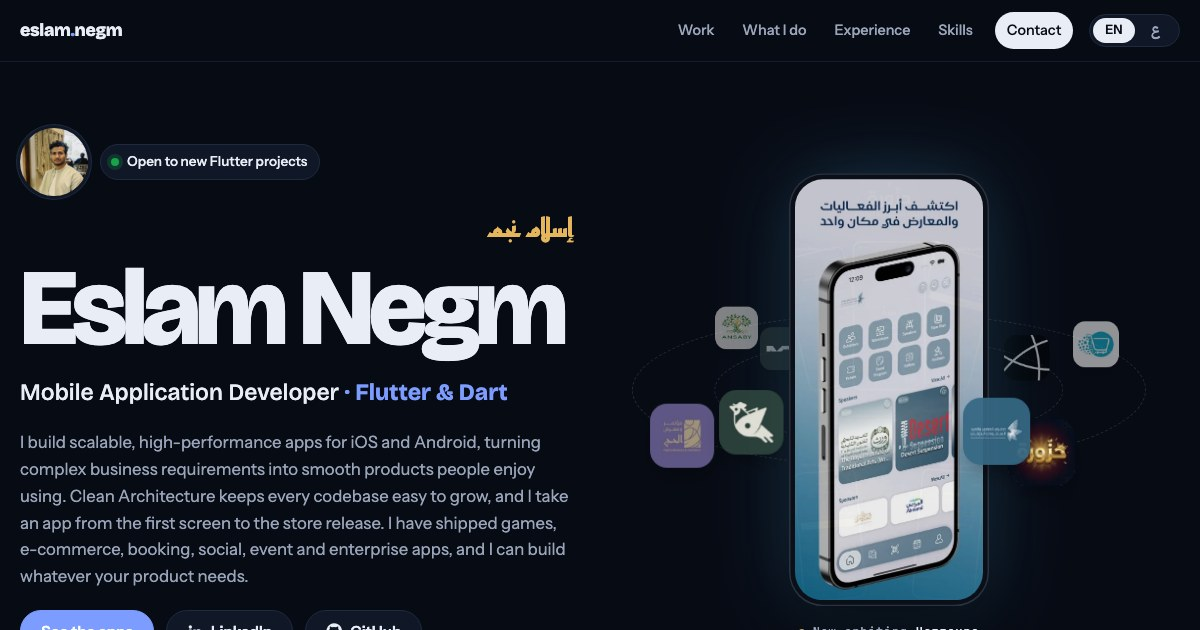
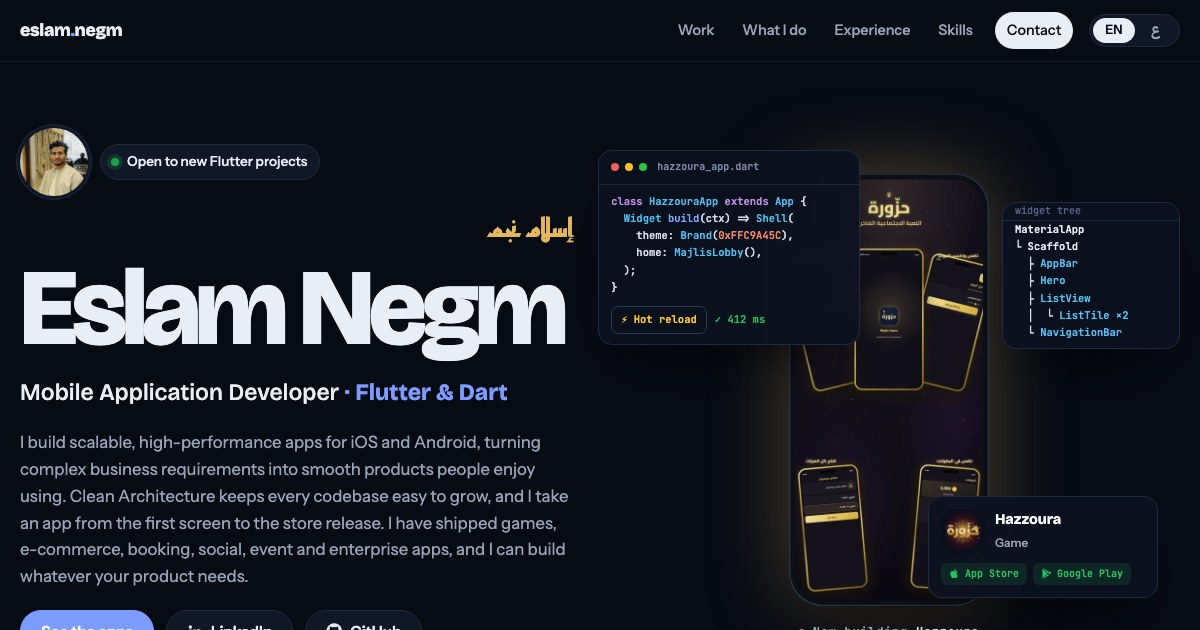
Replace the hero app orbit with a hot reload studio and refresh the link preview image

Changed region(s): [[0.4933, 0.2413, 0.9558, 0.9651], [0.4933, 0.2413, 0.6475, 0.2714], [0.6783, 0.9952, 0.7708, 1.0]]

diff --git a/index.html b/index.html
@@ -12,13 +12,13 @@
 <meta property="og:site_name" content="Eslam Negm">
 <meta property="og:title" content="Eslam Negm · Software Engineer">
 <meta property="og:description" content="Eslam Negm, Software Engineer building mobile apps with Flutter & Dart. Eight production apps on the App Store and Google Play: games, enterprise, events, social and commerce.">
-<meta property="og:image" content="https://eslamnegm.is-a.dev/og.jpg?v=3">
+<meta property="og:image" content="https://eslamnegm.is-a.dev/og.jpg?v=4">
 <meta property="og:url" content="https://eslamnegm.is-a.dev/">
 <link rel="canonical" href="https://eslamnegm.is-a.dev/">
 <meta name="twitter:card" content="summary_large_image">
 <meta name="twitter:title" content="Eslam Negm · Software Engineer">
 <meta name="twitter:description" content="Eslam Negm, Software Engineer building mobile apps with Flutter & Dart. Eight production apps on the App Store and Google Play: games, enterprise, events, social and commerce.">
-<meta name="twitter:image" content="https://eslamnegm.is-a.dev/og.jpg?v=3">
+<meta name="twitter:image" content="https://eslamnegm.is-a.dev/og.jpg?v=4">
 <script type="application/ld+json">{"@context":"https://schema.org","@type":"Person","name":"Eslam Negm","alternateName":"إسلام نجم","jobTitle":"Software Engineer","url":"https://eslamnegm.is-a.dev/","image":"https://eslamnegm.is-a.dev/img/me.jpg","address":{"@type":"PostalAddress","addressCountry":"EG"},"knowsAbout":["Flutter","Dart","Mobile application development","iOS","Android"],"sameAs":["https://github.com/eslamnegm010","https://www.linkedin.com/in/eslam-negm-37b03b3b8/","https://www.facebook.com/eSlam.neGm.Em"]}</script>
 <script type="application/ld+json">{"@context":"https://schema.org","@type":"WebSite","name":"Eslam Negm","alternateName":["إسلام نجم","Eslam Negm · Software Engineer"],"url":"https://eslamnegm.is-a.dev/"}</script>
 <link rel="icon" href="/favicon.ico" sizes="48x48">
@@ -30,7 +30,7 @@
 <link rel="preconnect" href="https://fonts.gstatic.com" crossorigin>
 <link rel="stylesheet" href="https://fonts.googleapis.com/css2?family=Alexandria:wght@600;700;800&family=Bricolage+Grotesque:opsz,wght@12..96,500;12..96,700;12..96,800&family=IBM+Plex+Sans+Arabic:wght@400;500;600&family=Instrument+Sans:wght@400;500;600&family=JetBrains+Mono:wght@500&family=Reem+Kufi:wght@600;700&display=swap">
 <style>
-/* Layout: hero = name + an "app orbit" (every shipped app circles a phone that shows whichever app passes in front);
+/* Layout: hero = name + a "hot reload studio" (each shipped app is coded, hot-reloaded, built widget by widget on a phone, then shipped);
    an app rail under the intro becomes a floating dock once you pass it; each app is a free-flowing section whose
    screens deal out like cards as it rises into view while the page takes the app's colour. English and Arabic (RTL). */
 :root {
@@ -302,9 +302,8 @@ html.is-loading .intro > *, html.is-loading .hero h1 .w, html.is-loading .orbit 
 }
 
 /* orbit */
-.orbit { position: relative; height: 600px; min-width: 0; perspective: 1200px; }
-.orbit-in { position: absolute; inset: 0; transition: transform .6s var(--ease); }
-.ring { position: absolute; left: 50%; top: 50%; border: 1px dashed var(--ring); border-radius: 50%; transform: translate(-50%, -50%); pointer-events: none; }
+.orbit { position: relative; height: 600px; min-width: 0; }
+.orbit-in { position: absolute; inset: 0; }
 .screen {
   position: absolute; left: 50%; top: 50%; width: 200px; aspect-ratio: 9 / 19.5; transform: translate(-50%, -50%); z-index: 5;
   border-radius: 34px; padding: 6px; background: #0b0f17; box-shadow: var(--shadow), 0 0 0 1.5px #2a3242 inset, 0 0 80px -10px color-mix(in srgb, var(--hero-c, var(--accent)) 55%, transparent);
@@ -317,14 +316,40 @@ html.is-loading .intro > *, html.is-loading .hero h1 .w, html.is-loading .orbit 
   font: 500 0.75rem/1 var(--mono); color: var(--muted); letter-spacing: .06em; display: flex; align-items: center; gap: 8px; }
 .now b { color: var(--ink); font-weight: 500; }
 .now i { width: 6px; height: 6px; border-radius: 50%; background: var(--hero-c, var(--accent)); }
-.planet { position: absolute; left: 0; top: 0; width: 64px; height: 64px; margin: -32px 0 0 -32px; border-radius: 17px; display: block; will-change: transform, opacity; }
-.planet img { width: 100%; height: 100%; border-radius: inherit; display: block; box-shadow: 0 12px 26px -10px rgba(0,0,0,.55); }
-.planet span {
-  position: absolute; left: 50%; top: calc(100% + 8px); transform: translateX(-50%) translateY(4px); white-space: nowrap; pointer-events: none;
-  font: 600 0.76rem/1 var(--body); color: var(--ink); background: var(--surface); border: 1px solid var(--line); padding: 6px 9px; border-radius: 8px;
-  opacity: 0; transition: opacity .2s, transform .2s var(--ease);
-}
-.planet:hover span, .planet:focus-visible span { opacity: 1; transform: translateX(-50%); }
+.hr-sk { position: absolute; inset: 0; z-index: 2; background: #0b0f17; transition: opacity .55s ease; }
+.hr-sk.off { opacity: 0; }
+.hr-sk i { position: absolute; left: 7%; right: 7%; border: 1.5px dashed #54c5f8; border-radius: 9px; background: rgba(84, 197, 248, .07); color: #54c5f8; font: 500 9px/1 var(--mono); font-style: normal; display: grid; place-items: center; opacity: 0; transform: scale(.92); transition: opacity .25s, transform .4s cubic-bezier(.3, 1.5, .5, 1); }
+.hr-sk i.on { opacity: 1; transform: none; }
+.hr-sk i:nth-child(1) { top: 8%; height: 7%; } .hr-sk i:nth-child(2) { top: 18%; height: 27%; } .hr-sk i:nth-child(3) { top: 48%; height: 11%; } .hr-sk i:nth-child(4) { top: 62%; height: 11%; } .hr-sk i:nth-child(5) { bottom: 4%; height: 8%; }
+.screen.flash { box-shadow: var(--shadow), 0 0 0 1.5px #2a3242 inset, 0 0 0 4px #54c5f8, 0 0 90px -6px #54c5f8; }
+.hr-card { position: absolute; z-index: 7; border-radius: 14px; border: 1px solid #1f2a44; background: rgba(11, 17, 32, .9); -webkit-backdrop-filter: blur(8px); backdrop-filter: blur(8px); box-shadow: var(--shadow); color: #d6deef; font: 500 10.5px/1.65 var(--mono); text-align: left; }
+.hr-head { display: flex; align-items: center; gap: 6px; padding: 8px 12px; border-bottom: 1px solid #1c2742; color: #7f8bab; font-size: 10px; }
+.hr-head i { width: 8px; height: 8px; border-radius: 50%; background: #ef5f57; } .hr-head i:nth-child(2) { background: #febc2e; } .hr-head i:nth-child(3) { background: #28c840; margin-right: 4px; }
+.hr-code { left: 0; top: 60px; width: 262px; }
+.hr-lines { padding: 8px 12px 4px; }
+.hr-lines div { white-space: pre; min-height: 1.65em; overflow: hidden; }
+.hr-lines .k { color: #c792ea; } .hr-lines .t { color: #4fc3f7; } .hr-lines .f { color: #82aaff; } .hr-lines .n { color: #f78c6c; }
+.hr-cur { display: inline-block; width: 6px; height: 12px; margin-left: 1px; vertical-align: -2px; background: #54c5f8; animation: hrBlink 1s steps(1) infinite; }
+@keyframes hrBlink { 50% { opacity: 0; } }
+.hr-rl { display: flex; align-items: center; gap: 8px; padding: 6px 12px 10px; }
+.hr-btn { display: inline-flex; align-items: center; gap: 5px; padding: 4px 9px; border-radius: 7px; border: 1px solid #2b3858; color: #ffca28; transition: transform .15s, background-color .2s, color .2s; }
+.hr-btn.press { transform: scale(.9); background: #ffca28; color: #0b1120; }
+.hr-rl em { font-style: normal; color: #22c55e; opacity: 0; transition: opacity .3s; }
+.hr-rl em.on { opacity: 1; }
+.hr-tree { right: 0; top: 112px; width: 178px; padding-bottom: 6px; }
+.hr-tree div { padding: 0 12px; white-space: pre; color: #56648a; transition: color .25s; }
+.hr-tree div.on { color: #e9edf6; }
+.hr-tree div.on b { color: #54c5f8; }
+.hr-tree b { font-weight: 500; }
+.hr-ship { right: 22px; bottom: 92px; width: 230px; padding: 12px; display: grid; grid-template-columns: 44px minmax(0, 1fr); gap: 2px 10px; align-items: center; text-decoration: none; opacity: 0; transform: translateY(12px) scale(.96); transition: opacity .35s, transform .5s cubic-bezier(.3, 1.4, .5, 1), border-color .3s; }
+.hr-ship.on { opacity: 1; transform: none; }
+.hr-ship:hover { border-color: var(--hero-c, #54c5f8); }
+.hr-ship img { width: 44px; height: 44px; border-radius: 12px; grid-row: span 2; }
+.hr-ship b { font: 600 0.9rem/1.2 var(--display); color: #fff; white-space: nowrap; overflow: hidden; text-overflow: ellipsis; }
+.hr-ship small { font: 500 0.74rem/1.2 var(--body); color: #9aa5ba; }
+.hr-ship .st { grid-column: 1 / -1; display: flex; flex-wrap: wrap; gap: 6px; margin-top: 8px; }
+.hr-ship .st span { display: inline-flex; align-items: center; gap: 5px; padding: 3px 8px; border-radius: 6px; background: rgba(34, 197, 94, .12); color: #22c55e; font-size: 10px; }
+.hr-ship .st svg { width: 11px; height: 11px; }
 
 /* app rail */
 .rail-wrap { display: grid; gap: 14px; margin-top: -56px; }
@@ -1124,7 +1149,9 @@ footer { color: var(--muted); font-size: 0.85rem; display: flex; justify-content
   .screen { width: 150px; border-radius: 26px; padding: 5px; }
   .screen-in { border-radius: 21px; }
   .now { top: calc(50% + 178px); }
-  .planet { width: 50px; height: 50px; margin: -25px 0 0 -25px; border-radius: 13px; }
+  .hr-code { left: 20px; top: 26px; width: 236px; }
+  .hr-tree { right: 20px; top: 40px; }
+  .hr-ship { right: 20px; bottom: 58px; }
   .rail-wrap { margin-top: 0; }
   .stage { grid-template-columns: minmax(0, 1fr); min-height: 0; gap: 22px; padding-block: 44px; }
   .deck { height: min(54svh, 470px); perspective: none; }
@@ -1171,13 +1198,22 @@ footer { color: var(--muted); font-size: 0.85rem; display: flex; justify-content
   .contact h2 { font-size: 1.9rem; }
   .cap h3 { font-size: 1.05rem; }
   .job h3 { font-size: 1.15rem; }
-  .orbit { height: 300px; margin-bottom: -8px; }
+  .orbit { height: 340px; margin-bottom: -8px; }
   .screen { width: 112px; border-radius: 20px; padding: 4px; }
   .screen-in { border-radius: 16px; }
-  .now { top: calc(50% + 132px); font-size: 0.68rem; }
+  .now { top: calc(50% + 132px); font-size: 0.68rem; left: 27%; }
+  .orbit .screen { left: 27%; }
+  .hr-card { font-size: 8.5px; border-radius: 11px; }
+  .hr-head { padding: 5px 9px; font-size: 8.5px; }
+  .hr-code { left: auto; right: 6px; top: 14px; width: 186px; }
+  .hr-lines { padding: 5px 9px 2px; }
+  .hr-rl { padding: 4px 9px 7px; }
+  .hr-tree { display: none; }
+  .hr-ship { right: 6px; bottom: 34px; width: 186px; padding: 9px; grid-template-columns: 34px minmax(0, 1fr); }
+  .hr-ship img { width: 34px; height: 34px; border-radius: 9px; }
+  .hr-ship b { font-size: 0.8rem; }
   .cap { padding: 20px; }
   .hero-text { gap: 16px; }
-  .planet { width: 40px; height: 40px; margin: -20px 0 0 -20px; border-radius: 11px; }
   .planet span { display: none; }
   .caps, .skills, .facts { grid-template-columns: minmax(0, 1fr); }
   .job { grid-template-columns: minmax(0, 1fr); gap: 8px; }
@@ -1291,11 +1327,13 @@ footer { color: var(--muted); font-size: 0.85rem; display: flex; justify-content
       </div>
     </div>
     <div class="orbit" id="orbit">
-      <div class="orbit-in" id="orbit-in">
-        <div class="ring" id="ring1"></div>
-        <div class="ring" id="ring2"></div>
-        <div class="screen" aria-hidden="true"><div class="screen-in" id="screen"></div></div>
-        <div class="now"><i></i><span data-t="orbiting">Now orbiting</span> <b id="now-name">Hazzoura</b></div>
+      <div class="orbit-in" id="orbit-in" dir="ltr">
+        <div class="hr-card hr-code" aria-hidden="true"><div class="hr-head"><i></i><i></i><i></i><span id="hr-file">main.dart</span></div><div class="hr-lines" id="hr-lines"></div>
+          <div class="hr-rl"><span class="hr-btn" id="hr-btn">⚡ Hot reload</span><em id="hr-ms">✓ 412 ms</em></div></div>
+        <div class="screen" aria-hidden="true"><div class="screen-in" id="screen"><div class="hr-sk" id="hr-sk"><i>AppBar</i><i>Hero</i><i>ListTile</i><i>ListTile</i><i>NavigationBar</i></div></div></div>
+        <div class="hr-card hr-tree" aria-hidden="true" id="hr-tree"><div class="hr-head">widget tree</div><div class="on">MaterialApp</div><div class="on">└ Scaffold</div><div>  ├ <b>AppBar</b></div><div>  ├ <b>Hero</b></div><div>  ├ <b>ListView</b></div><div>  │  └ <b>ListTile ×2</b></div><div>  └ <b>NavigationBar</b></div></div>
+        <a class="hr-card hr-ship" id="hr-ship" href="#work"><img id="hr-ic" src="img/hazzoura-icon.webp" alt=""><b id="hr-name">Hazzoura</b><small id="hr-tag"></small><span class="st" id="hr-st"></span></a>
+        <div class="now"><i></i><span data-t="orbiting">Now building</span> <b id="now-name">Hazzoura</b></div>
       </div>
     </div>
   </section>
@@ -1490,7 +1528,7 @@ var T = {
     avail: "Open to new Flutter projects",
     role: "Mobile Application Developer <b>· Flutter &amp; Dart</b>",
     lede: "I build scalable, high-performance apps for iOS and Android, turning complex business requirements into smooth products people enjoy using. Clean Architecture keeps every codebase easy to grow, and I take an app from the first screen to the store release. I have shipped games, e-commerce, booking, social, event and enterprise apps, and I can build whatever your product needs.",
-    see: "See the apps", orbiting: "Now orbiting", sheetSee: "See it on this page",
+    see: "See the apps", orbiting: "Now building", sheetSee: "See it on this page",
     rail: "8 apps live on the App Store and Google Play",
     "work.label": "Selected work", "work.title": "Scroll through the apps I've shipped",
     "work.sub": "Production apps for enterprises, government events, games and commerce, live on the App Store and Google Play.",
@@ -1524,7 +1562,7 @@ var T = {
     avail: "متاح لمشاريع Flutter جديدة",
     role: "مطوّر تطبيقات جوال <b>· Flutter و Dart</b>",
     lede: "أبني تطبيقات iOS وAndroid قابلة للتوسّع وعالية الأداء، وأحوّل متطلبات الأعمال المعقّدة إلى منتجات سلسة يستمتع الناس باستخدامها. أعتمد Clean Architecture ليبقى كل مشروع سهل التطوير، وأتولّى التطبيق من أول شاشة حتى النشر على المتجر. أطلقت ألعابًا ومتاجر إلكترونية وتطبيقات حجز وتواصل وفعاليات وشركات، وأستطيع بناء ما يحتاجه منتجك.",
-    see: "شاهد التطبيقات", orbiting: "يدور الآن", sheetSee: "شاهده في هذه الصفحة",
+    see: "شاهد التطبيقات", orbiting: "يُبنى الآن", sheetSee: "شاهده في هذه الصفحة",
     rail: "8 تطبيقات منشورة على App Store و Google Play",
     "work.label": "أعمال مختارة", "work.title": "تصفّح التطبيقات التي أطلقتها",
     "work.sub": "تطبيقات منشورة لشركات وفعاليات حكومية وألعاب ومتاجر إلكترونية، ومتاحة على App Store و Google Play.",
@@ -2166,7 +2204,7 @@ function applyText() {
   alt.textContent = d.alt;
   alt.setAttribute("lang", LANG === "ar" ? "en" : "ar");
   alt.setAttribute("dir", LANG === "ar" ? "ltr" : "rtl");
-  planets.forEach(function (p) { p.label.textContent = LANG === "ar" && p.app.ar ? p.app.ar : p.app.name; });
+  if (Studio) Studio.relabel();
 }
 
 function scrollToEl(el, offset) {
@@ -2235,54 +2273,90 @@ document.addEventListener("click", function (e) {
   scrollToEl(el, -64);
 });
 
-/* ---------- orbit ---------- */
-var orbit = $("orbit"), orbitIn = $("orbit-in"), screen = $("screen"), nowName = $("now-name"), hero = $("hero");
-var planets = APPS.map(function (a, i) {
-  var el = document.createElement("a");
-  el.className = "planet"; el.href = "#app-" + a.id; el.setAttribute("aria-label", a.name);
-  el.innerHTML = '<img src="img/' + a.id + '-icon.webp" alt=""><span></span>';
-  orbitIn.appendChild(el);
-  return { el: el, label: el.querySelector("span"), app: a, ring: i % 2, phase: (Math.floor(i / 2) / 4) * Math.PI * 2 + (i % 2) * 0.6 };
-});
-var O = { w: 0, h: 0, R: 0, tilt: 0.3, t: 0, speed: 1, hover: false, front: null, lastSwap: 0, visible: true, mx: 0, my: 0 };
-function measureOrbit() {
-  O.w = orbit.clientWidth; O.h = orbit.clientHeight;
-  O.R = Math.min(O.w / 2 - 34, 300);
-  var r1 = $("ring1"), r2 = $("ring2");
-  r1.style.width = (O.R * 2) + "px"; r1.style.height = (O.R * 2 * O.tilt) + "px";
-  r2.style.width = (O.R * 1.36) + "px"; r2.style.height = (O.R * 1.36 * O.tilt) + "px";
-}
+/* ---------- hero: hot reload studio ---------- */
+var screen = $("screen"), nowName = $("now-name"), hero = $("hero");
+var O = { front: null, visible: true };
 function setScreen(app) {
   var img = new Image();
   img.src = "img/" + app.id + "-0.webp"; img.alt = ""; img.className = "out";
-  screen.appendChild(img);
+  screen.insertBefore(img, $("hr-sk"));
   var old = screen.querySelectorAll("img");
   requestAnimationFrame(function () { img.classList.remove("out"); });
   for (var i = 0; i < old.length - 1; i++) { (function (o) { o.classList.add("out"); setTimeout(function () { o.remove(); }, 800); })(old[i]); }
   nowName.textContent = LANG === "ar" && app.ar ? app.ar : app.name;
   hero.style.setProperty("--hero-c", app.c);
 }
-orbit.addEventListener("pointerenter", function () { O.hover = true; });
-orbit.addEventListener("pointerleave", function () { O.hover = false; });
-function drawOrbit(dt) {
-  O.speed += ((O.hover ? 0.15 : 1) - O.speed) * 0.06;
-  if (!reduce) O.t += dt * 0.00018 * O.speed;
-  var cx = O.w / 2, cy = O.h / 2, best = -2, bestP = null;
-  planets.forEach(function (p) {
-    var rr = p.ring ? O.R * 0.68 : O.R;
-    var a = p.phase + O.t * (p.ring ? -1.35 : 1);
-    var depth = Math.sin(a);
-    var x = cx + Math.cos(a) * rr, y = cy + depth * rr * O.tilt;
-    var s = 0.62 + 0.48 * (depth + 1) / 2;
-    p.el.style.transform = "translate3d(" + x.toFixed(1) + "px," + y.toFixed(1) + "px,0) scale(" + s.toFixed(3) + ")";
-    var z = depth > 0 ? 10 + Math.round(depth * 10) : 1;
-    if (z !== p.z) { p.z = z; p.el.style.zIndex = String(z); }
-    p.el.style.opacity = (0.45 + 0.55 * (depth + 1) / 2).toFixed(2);
-    if (depth > best) { best = depth; bestP = p; }
-  });
-  var now = performance.now();
-  if (bestP && bestP.app !== O.front && now - O.lastSwap > 900) { O.front = bestP.app; O.lastSwap = now; setScreen(bestP.app); }
-}
+var HR = { hazzoura: ["HazzouraApp", "MajlisLobby"], sela: ["SelaApp", "EmployeeHub"], hajj: ["HajjExpoApp", "ExpoAgenda"], fhe: ["FalconExpoApp", "ExhibitionMap"],
+  ansaby: ["AnsabyApp", "FamilyTree"], slots: ["SlotsApp", "SalonBooking"], square: ["SquareApp", "GroceryShop"], melocanna: ["MelocannaApp", "RattanCatalog"] };
+var Studio = (function () {
+  var lines = $("hr-lines"), btn = $("hr-btn"), ms = $("hr-ms"), sk = $("hr-sk"), boxes = sk.querySelectorAll("i"), tree = $("hr-tree").querySelectorAll("div:not(.hr-head)");
+  var ship = $("hr-ship"), scr = document.querySelector(".orbit .screen"), k = 0, gen = 0, on = false;
+  function src(a) {
+    var h = HR[a.id];
+    return [
+      '<span class="k">class</span> <span class="t">' + h[0] + '</span> <span class="k">extends</span> <span class="t">App</span> {',
+      '  <span class="t">Widget</span> <span class="f">build</span>(ctx) =&gt; <span class="t">Shell</span>(',
+      '    theme: <span class="t">Brand</span>(<span class="n">0xFF' + a.c.slice(1).toUpperCase() + '</span>),',
+      '    home: <span class="t">' + h[1] + '</span>(),',
+      '  );',
+      '}'
+    ];
+  }
+  function plain(html) { var d = document.createElement("div"); d.innerHTML = html; return d.textContent; }
+  function fillShip(a) {
+    $("hr-ic").src = "img/" + a.id + "-icon.webp";
+    $("hr-name").textContent = LANG === "ar" && a.ar ? a.ar : (a.short || a.name);
+    $("hr-tag").textContent = tx(a).tag;
+    $("hr-st").innerHTML = '<span>' + APPLE + 'App Store</span>' + (a.gp ? '<span>' + PLAY + 'Google Play</span>' : '');
+    ship.href = "#app-" + a.id;
+  }
+  function paint(a) {
+    lines.innerHTML = src(a).map(function (l) { return "<div>" + l + "</div>"; }).join("");
+    $("hr-file").textContent = HR[a.id][0].replace(/App$/, "").toLowerCase() + "_app.dart";
+    Array.prototype.forEach.call(boxes, function (b) { b.classList.add("on"); });
+    Array.prototype.forEach.call(tree, function (t) { t.classList.add("on"); });
+    sk.classList.add("off"); ms.classList.add("on"); fillShip(a); ship.classList.add("on");
+    if (O.front !== a) { O.front = a; setScreen(a); }
+  }
+  function cycle(g) {
+    var a = APPS[k], code = src(a), live = function () { return g === gen; };
+    function wait(t) { return new Promise(function (ok, no) { setTimeout(function () { live() ? ok() : no("stop"); }, t); }); }
+    function typeLine(i) {
+      var row = document.createElement("div"); lines.appendChild(row);
+      var txt = plain(code[i]), n = 0;
+      return (function next() {
+        if (!live()) return Promise.reject("stop");
+        if (n >= txt.length) { row.innerHTML = code[i]; return Promise.resolve(); }
+        n = Math.min(txt.length, n + 2); row.textContent = txt.slice(0, n); row.insertAdjacentHTML("beforeend", '<span class="hr-cur"></span>');
+        return wait(18).then(next);
+      })();
+    }
+    ship.classList.remove("on"); ms.classList.remove("on"); sk.classList.remove("off");
+    nowName.textContent = LANG === "ar" && a.ar ? a.ar : a.name; hero.style.setProperty("--hero-c", a.c);
+    Array.prototype.forEach.call(boxes, function (b) { b.classList.remove("on"); });
+    Array.prototype.forEach.call(tree, function (t, i) { t.classList.toggle("on", i < 2); });
+    lines.innerHTML = ""; $("hr-file").textContent = HR[a.id][0].replace(/App$/, "").toLowerCase() + "_app.dart";
+    var chain = wait(450);
+    code.forEach(function (_, i) { chain = chain.then(function () { return typeLine(i); }); });
+    return chain.then(function () { return wait(350); }).then(function () {
+      btn.classList.add("press"); scr.classList.add("flash"); return wait(260);
+    }).then(function () {
+      btn.classList.remove("press"); ms.classList.add("on"); O.front = a; setScreen(a);
+      var c = Promise.resolve();
+      [[0, 2], [1, 3], [2, 4], [3, 5], [4, 6]].forEach(function (p) { c = c.then(function () { boxes[p[0]].classList.add("on"); tree[p[1]].classList.add("on"); return wait(230); }); });
+      return c;
+    }).then(function () { scr.classList.remove("flash"); return wait(350); }).then(function () {
+      sk.classList.add("off"); return wait(500);
+    }).then(function () { fillShip(a); ship.classList.add("on"); return wait(2600); }).then(function () { k = (k + 1) % APPS.length; });
+  }
+  return {
+    on: function () { return on; },
+    start: function () { if (on) return; on = true; var g = ++gen; (function loop() { cycle(g).then(loop, function () {}); })(); },
+    stop: function () { gen++; on = false; scr.classList.remove("flash"); btn.classList.remove("press"); paint(APPS[k]); },
+    still: function () { paint(APPS[k]); },
+    relabel: function () { if (O.front) fillShip(O.front); }
+  };
+})();
 
 /* ---------- chapters: progress follows the section's position, eased; nothing is pinned ---------- */
 var chapters = [];
@@ -2445,12 +2519,13 @@ function loop(now) {
     ch.done = Math.abs(d) < 0.0005 && Math.abs(ds) < 0.0005 && Math.abs(di) < 0.0005;
     layout(ch, ch.cur, ch.sw, ch.ic);
   });
-  if (O.visible) drawOrbit(dt);
+  var want = O.visible && !reduce && !document.documentElement.classList.contains("is-loading");
+  if (want !== Studio.on()) { if (want) Studio.start(); else Studio.stop(); }
   requestAnimationFrame(loop);
 }
 var measureQueued = false;
 function queueMeasure() { if (measureQueued) return; measureQueued = true; requestAnimationFrame(function () { measureQueued = false; measure(); }); }
-function onResize() { measureOrbit(); measureDecks(); armReveal(); measure(); read(window.scrollY); wake(); }
+function onResize() { measureDecks(); armReveal(); measure(); read(window.scrollY); wake(); }
 window.addEventListener("resize", onResize);
 if (window.ResizeObserver) new ResizeObserver(queueMeasure).observe(document.body);
 
@@ -2473,7 +2548,7 @@ function setLang(l, keepScroll) {
   renderApps(); applyText(); collectChapters(); armReveal();
   if (O.front) { nowName.textContent = l === "ar" && O.front.ar ? O.front.ar : O.front.name; }
   Array.prototype.forEach.call(document.querySelectorAll("main, .wrap > *"), function (el) { el.classList.remove("swap"); void el.offsetWidth; if (keepScroll) el.classList.add("swap"); });
-  measureOrbit(); measureDecks();
+  measureDecks();
   if (anchor) { var el = $("app-" + anchor); window.scrollTo({ top: el.getBoundingClientRect().top + window.scrollY - offset, behavior: "auto" }); }
   measure(); read(window.scrollY); setActive(activeId, true); chapters.forEach(function (ch) { ch.cur = clamp(ch.target, 0, 1); ch.sw = ch.sway || 0; ch.ic = clamp(ch.it, 0, 1); layout(ch, ch.cur, ch.sw, ch.ic); });
   try { localStorage.setItem("lang", l); } catch (err) {}
@@ -2487,7 +2562,7 @@ var saved = null;
 try { saved = localStorage.getItem("lang"); } catch (err) {}
 setLang(saved === "ar" ? "ar" : "en", false);
 onResize();
-setScreen(APPS[0]); O.front = APPS[0]; O.lastSwap = performance.now();
+Studio.still();
 requestAnimationFrame(loop);
 (function () {
   function warm() {
